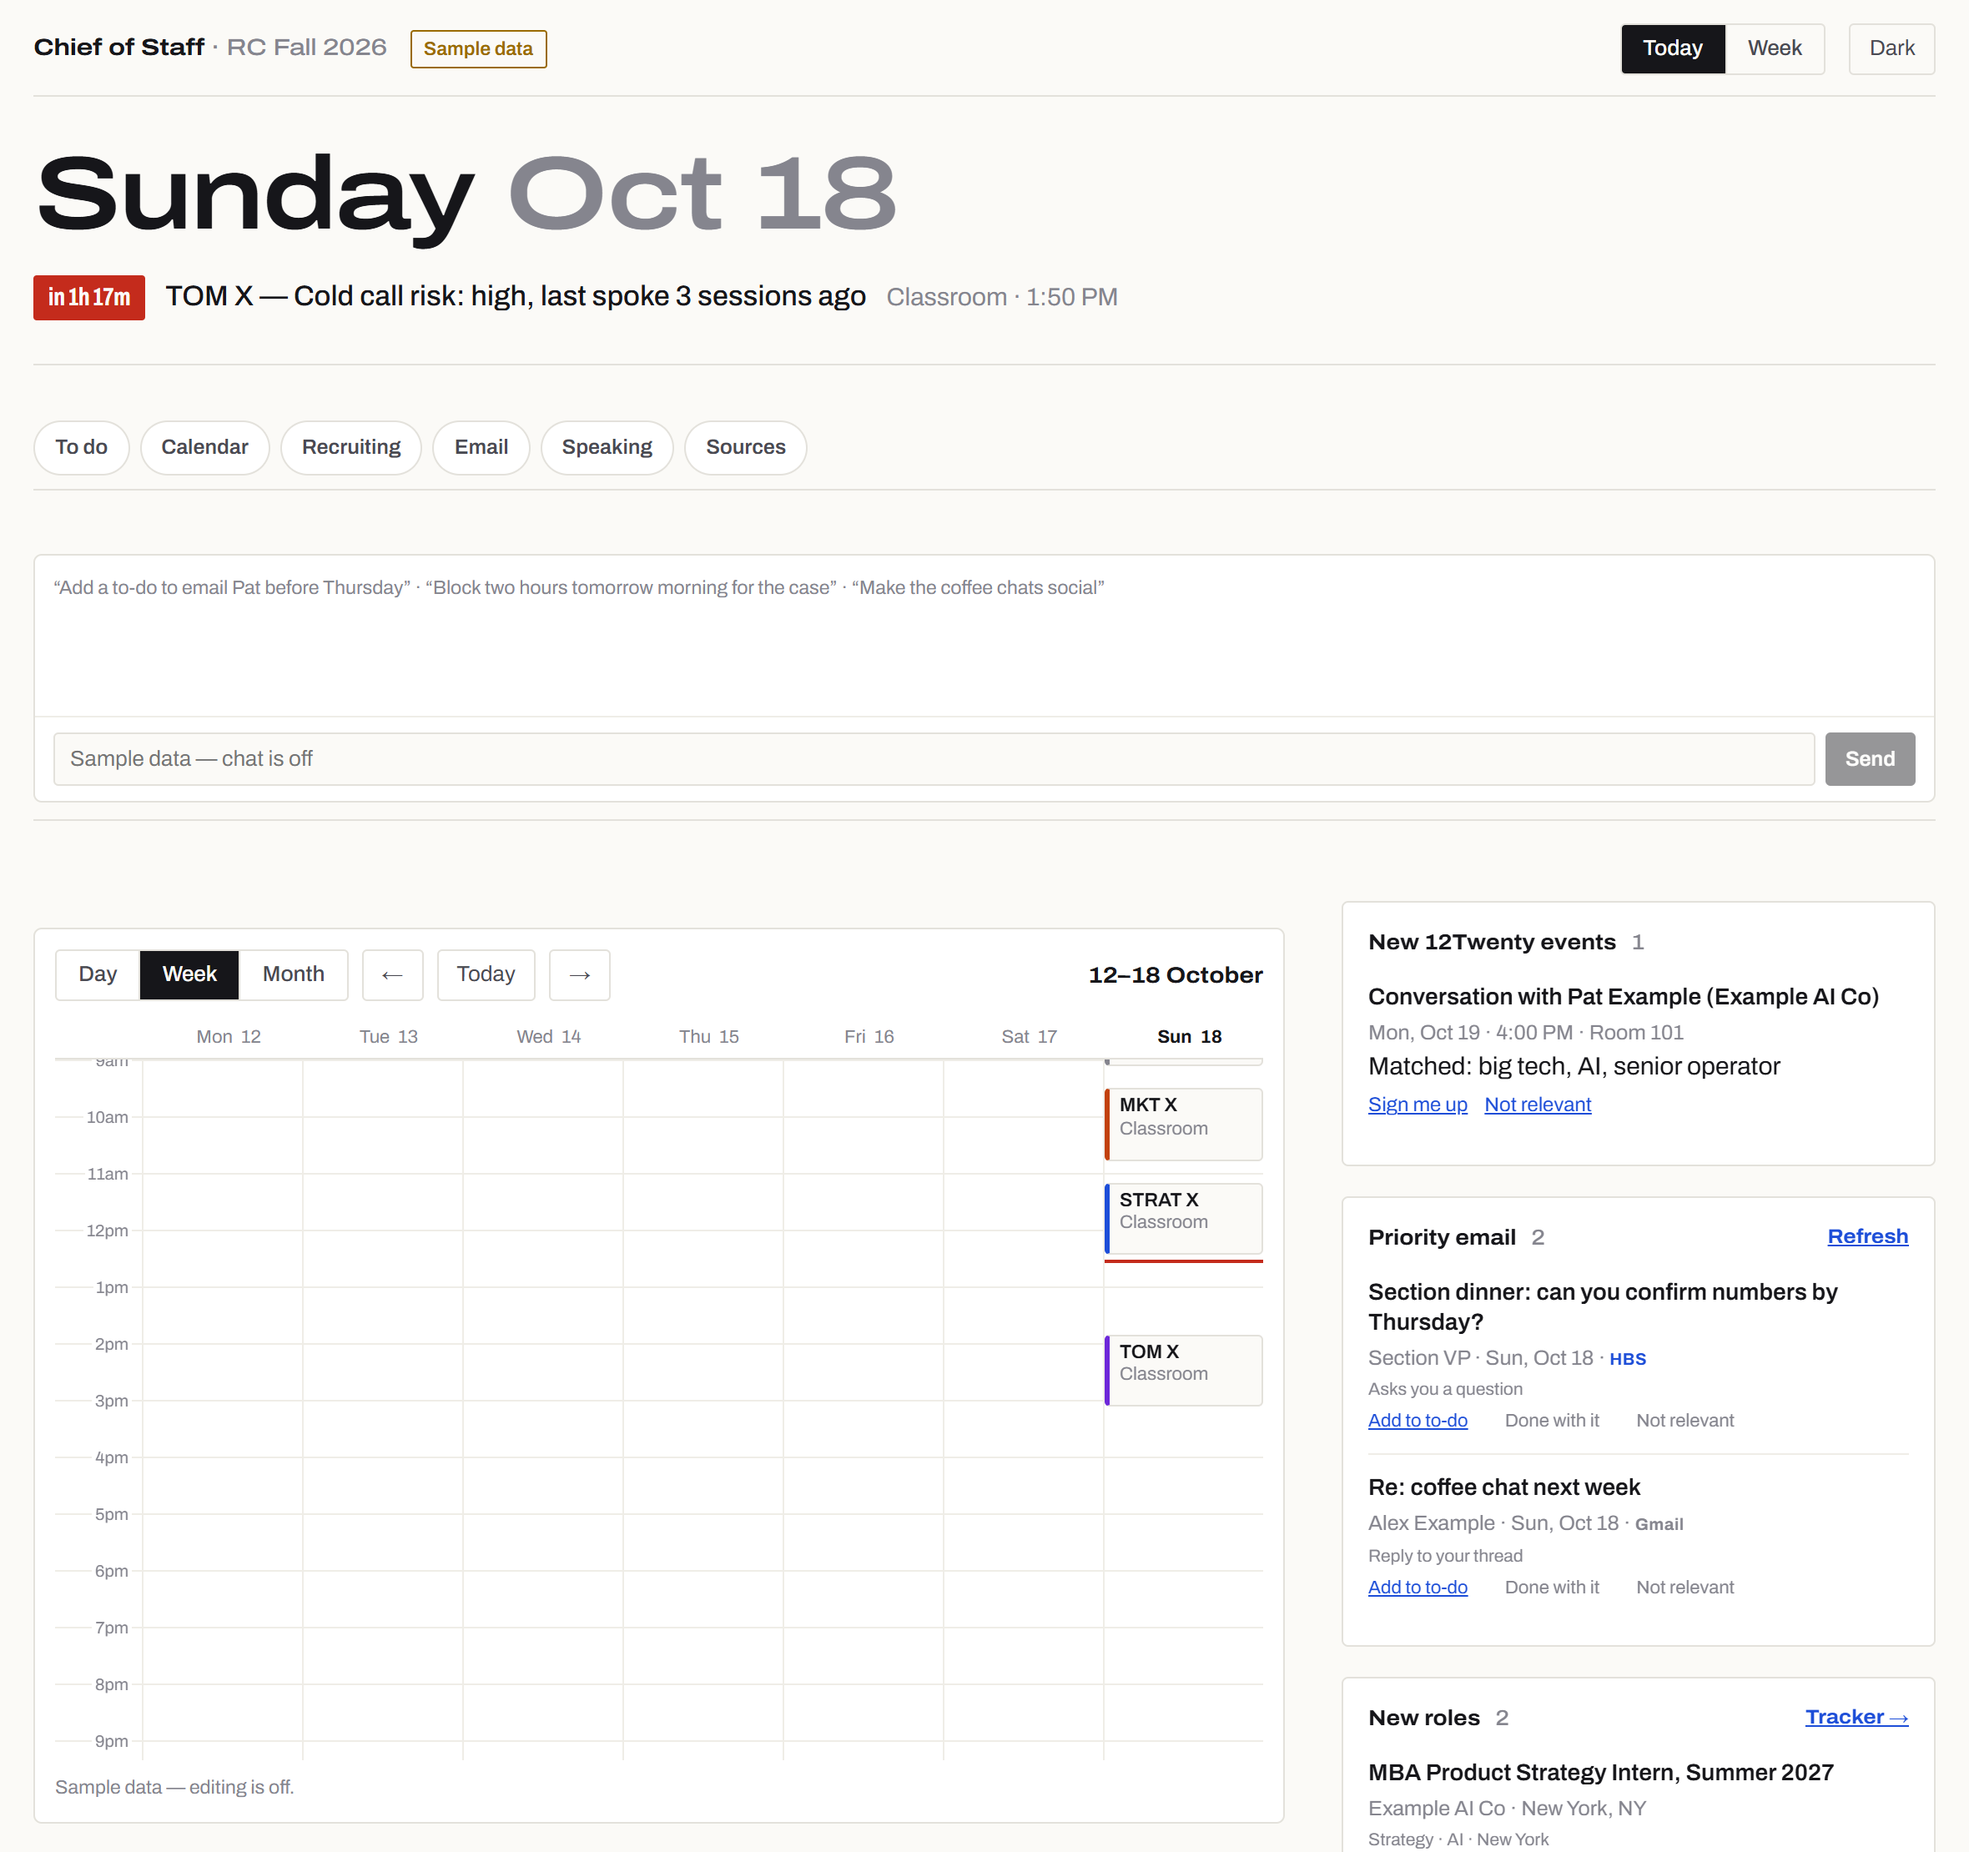
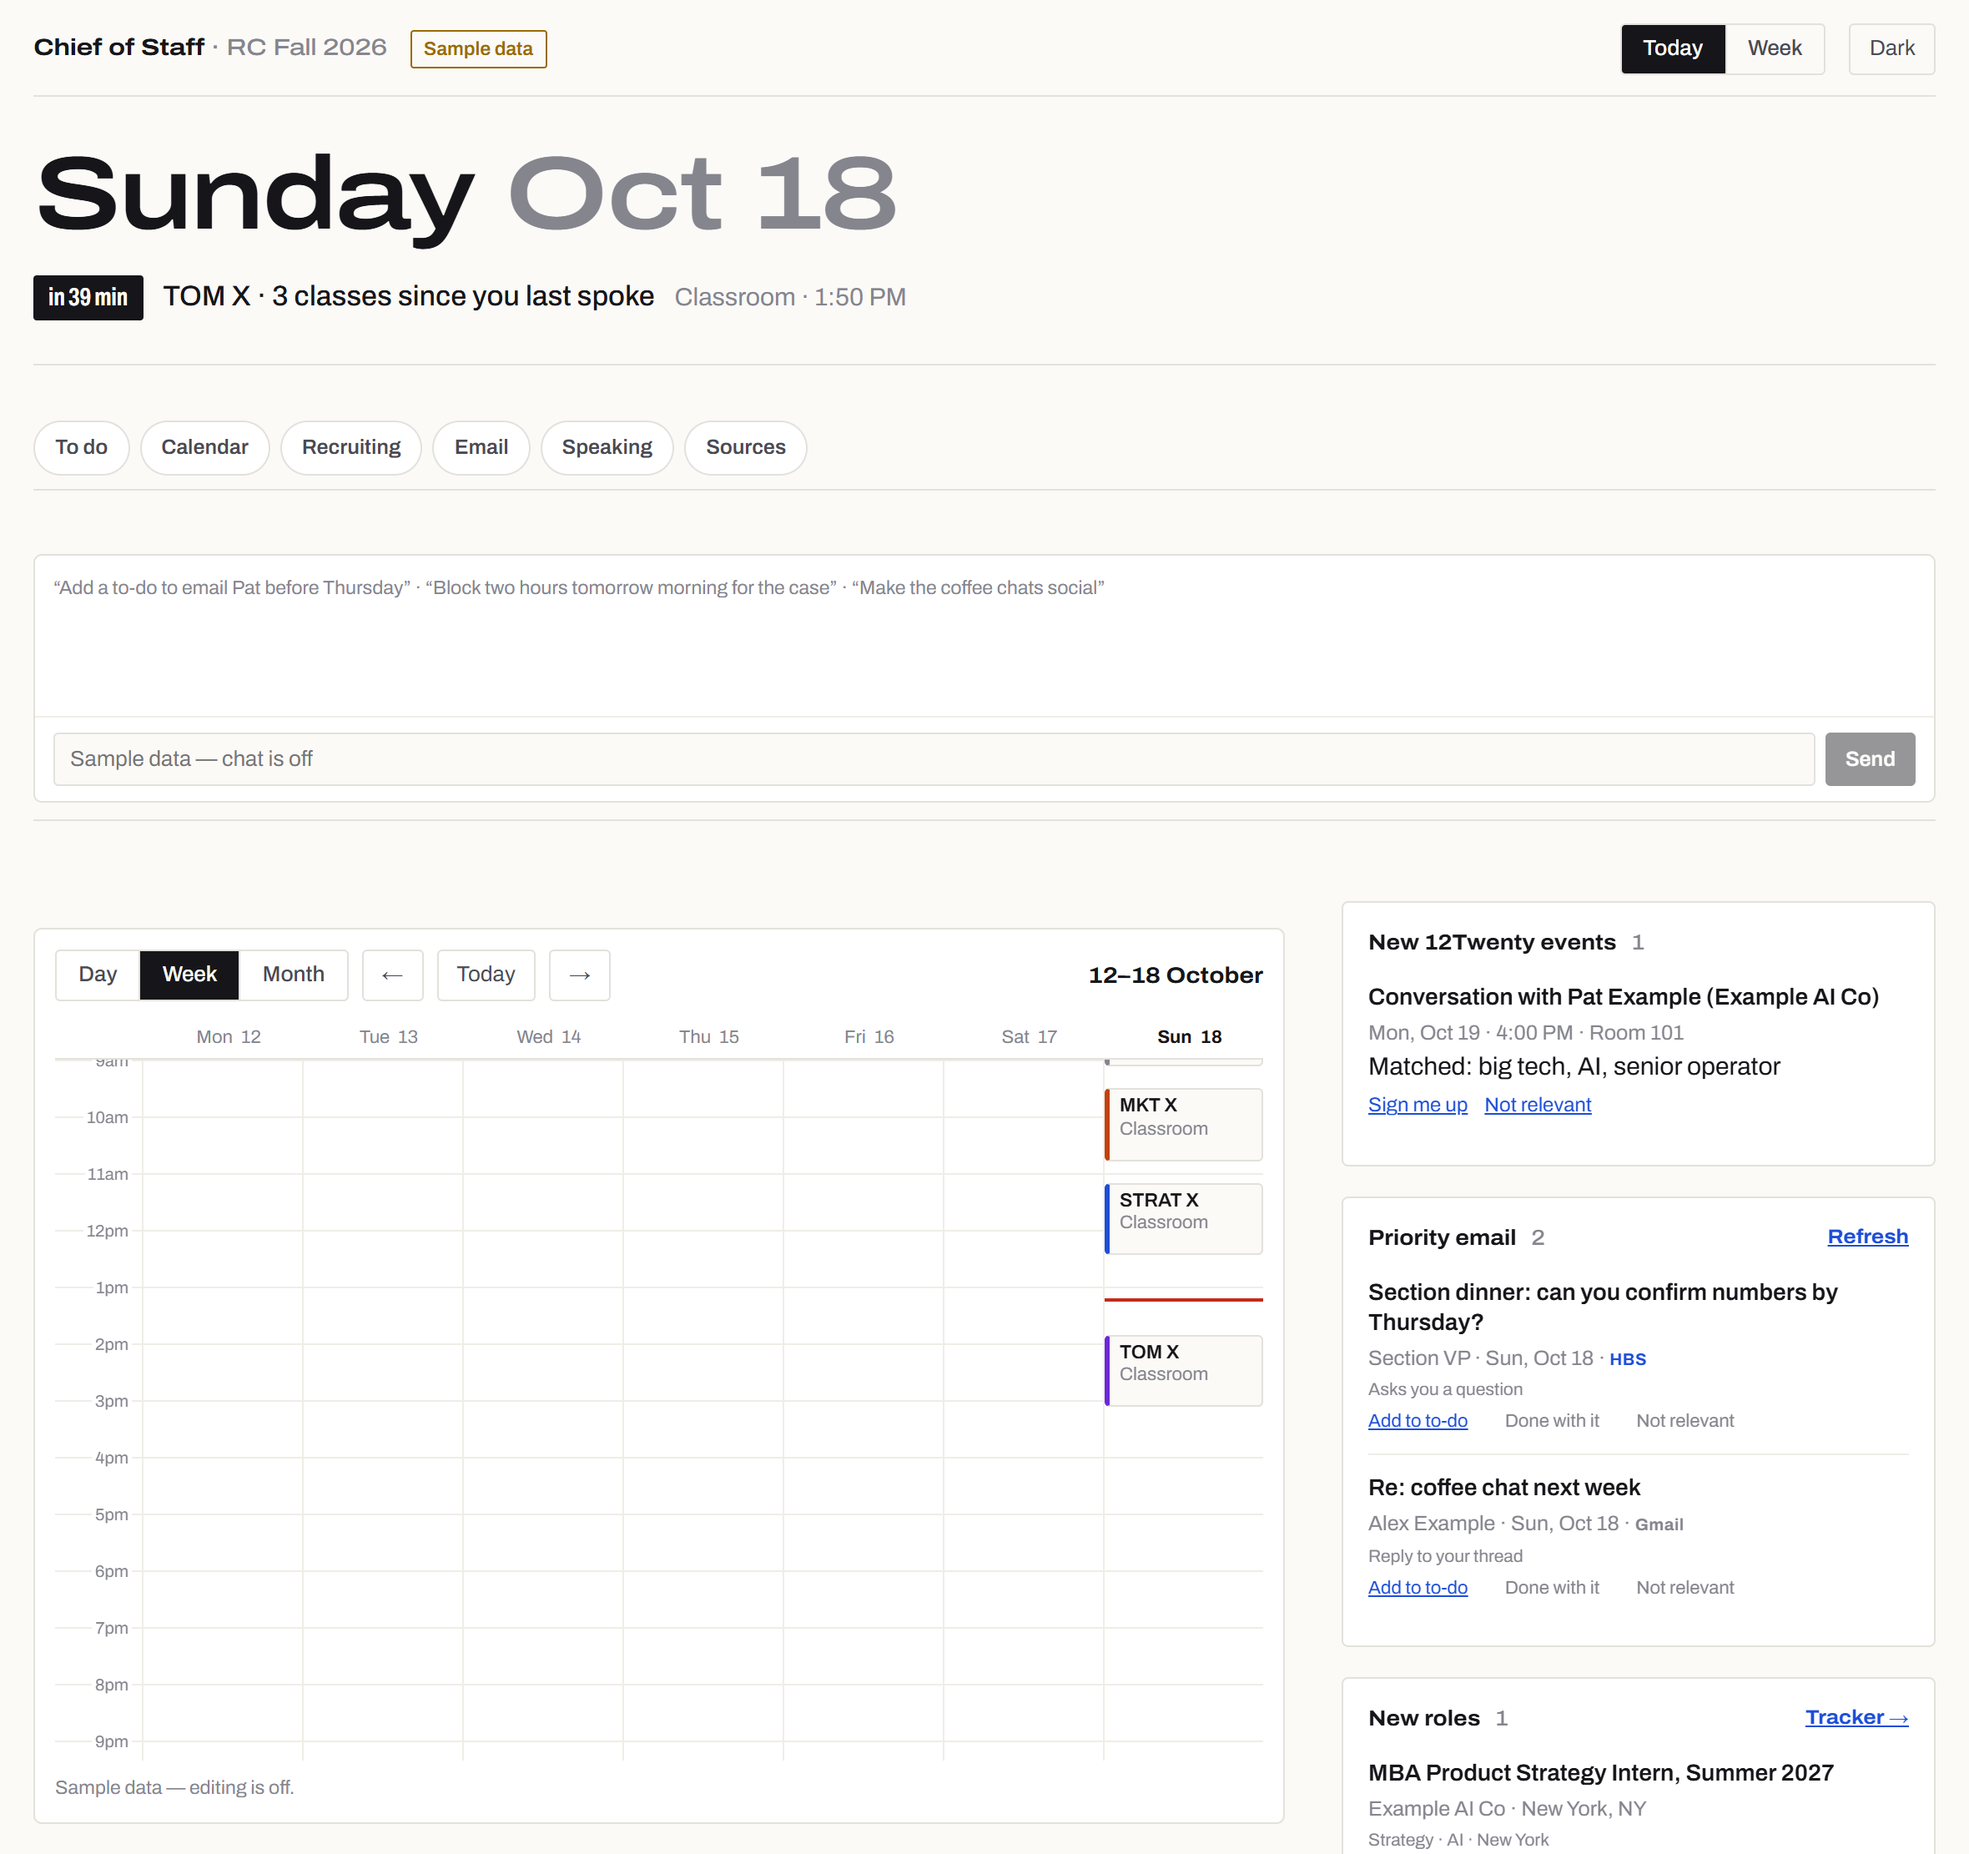
Reframe around classmates, six systems, participation tracking
Open with the busy-at-HBS framing, group the six sources by school,
personal life and recruiting, crop the second console view to cases
and illustrative to-dos, and describe participation as pacing rather
than cold-call risk.

diff --git a/index.html b/index.html
@@ -82,12 +82,20 @@ figure{margin:28px 0 0}
 a.shot:hover{border-color:var(--ink-3)}
 figcaption{font-size:13.5px;color:var(--ink-3);margin-top:10px;max-width:80ch}
 
-/* the five systems */
-.systems{display:grid;grid-template-columns:repeat(5,minmax(0,1fr));gap:1px;background:var(--rule);border:1px solid var(--rule);border-radius:4px;overflow:hidden;margin-top:24px}
-.systems div{background:var(--card);padding:14px 14px 16px;min-width:0}
-.systems b{display:block;font-size:14px}
-.systems span{display:block;font-size:13px;color:var(--ink-3);margin-top:3px}
-@media (max-width:760px){.systems{grid-template-columns:repeat(2,minmax(0,1fr))}}
+/* the six systems, in three groups */
+.groups{display:grid;grid-template-columns:repeat(3,minmax(0,1fr));gap:16px;margin-top:24px}
+.group{border:1px solid var(--rule);border-top:3px solid var(--c);border-radius:4px;background:var(--card);padding:16px 16px 6px;min-width:0}
+.group h3{font-size:12px;font-weight:700;letter-spacing:.08em;text-transform:uppercase;color:var(--c);margin:0 0 10px}
+.group div{padding:10px 0;border-top:1px solid var(--rule-2)}
+.group b{display:block;font-size:15px}
+.group span{display:block;font-size:13.5px;color:var(--ink-3);margin-top:2px}
+@media (max-width:760px){.groups{grid-template-columns:1fr}}
+.also{display:grid;grid-template-columns:repeat(4,minmax(0,1fr));gap:1px;background:var(--rule);border:1px solid var(--rule);border-radius:4px;overflow:hidden;margin-top:14px}
+.also div{background:var(--card);padding:14px;min-width:0}
+.also b{display:block;font-size:14.5px}
+.also span{display:block;font-size:13.5px;color:var(--ink-2);margin-top:3px}
+@media (max-width:860px){.also{grid-template-columns:repeat(2,minmax(0,1fr))}}
+@media (max-width:480px){.also{grid-template-columns:1fr}}
 
 /* tips */
 .tip-head{display:grid;grid-template-columns:auto 1fr;gap:18px;align-items:start}
@@ -159,8 +167,8 @@ footer .sp{flex:1}
 <main>
   <div class="hero wide">
     <p class="eyebrow">A project from my first year at Harvard Business School</p>
-    <h1>I automated the admin of business school. <em>Then I taught my section to.</em></h1>
-    <p class="lede">Over my first semester I taught myself to hand most of the small, recurring admin in my life to AI agents: filing class materials, prepping for cases, tracking recruiting, triaging two inboxes.</p>
+    <h1>I automated the admin of business school. <em>Then I taught my classmates to.</em></h1>
+    <p class="lede">Life gets busy at HBS. To make the most of my time, I automated as many of my tasks as possible, handing the small, recurring admin to AI agents: filing class materials, prepping for cases, tracking recruiting, triaging two inboxes.</p>
     <p class="lede">Friends kept asking how, so I built a website that teaches them a few of the most helpful tasks, from a simple daily study run anyone can set up to the full Chief of Staff I use every day.</p>
     <p class="byline"><b>Jamie Friedman</b> · HBS MBA 2028 · built with Claude Code and Claude in Chrome, fall 2026</p>
     <div class="ctas">
@@ -171,15 +179,19 @@ footer .sp{flex:1}
 
   <section class="wide" id="problem">
     <div class="narrow">
-      <h2>Why: the admin is spread across five systems</h2>
-      <p class="muted">An HBS first year runs six courses with a case almost every day while recruiting for a summer internship. What you need to plan a single day lives in five places that don't talk to each other, and two of them sit behind university sign-on with no API a student can use.</p>
+      <h2>Why: the admin is spread across six systems</h2>
+      <p class="muted">An HBS first year runs six courses with a case almost every day while recruiting for a summer internship. What you need to plan a single day lives in six places across school, personal life and recruiting. None of them talk to each other, and two sit behind university sign-on with no API a student can use.</p>
     </div>
-    <div class="systems">
-      <div><b>Canvas</b><span>Cases, problem sets and deadlines for six courses</span></div>
-      <div><b>HBS Outlook</b><span>Class schedule, section and club mail</span></div>
-      <div><b>12Twenty</b><span>Recruiting events and registrations</span></div>
-      <div><b>Gmail</b><span>Personal mail, newsletters, LinkedIn alerts</span></div>
-      <div><b>Google Calendar</b><span>Everything else in life</span></div>
+    <div class="groups">
+      <div class="group" style="--c:var(--strat)"><h3>School resources</h3>
+        <div><b>Canvas</b><span>Cases, problem sets and deadlines for six courses</span></div>
+        <div><b>HBS Outlook</b><span>Class schedule, section and club mail</span></div></div>
+      <div class="group" style="--c:var(--lead)"><h3>Personal life</h3>
+        <div><b>Gmail</b><span>Personal mail and newsletters</span></div>
+        <div><b>Google Calendar</b><span>Everything outside class</span></div></div>
+      <div class="group" style="--c:var(--rec)"><h3>Recruiting &amp; career</h3>
+        <div><b>12Twenty</b><span>Recruiting events and registrations</span></div>
+        <div><b>LinkedIn</b><span>Job alerts, roles and contacts</span></div></div>
     </div>
   </section>
 
@@ -225,17 +237,17 @@ footer .sp{flex:1}
         <p class="kicker" style="color:var(--strat)">The full system</p>
         <h2>An AI Chief of Staff: one page that runs my day</h2>
         <div class="tags"><span>Calendar</span><span>To-do list</span><span>Recruiting tracker</span><span>Two inboxes</span><span>News</span><span>Participation</span><span>AI agent</span></div>
-        <p class="muted">Everything from the five systems in one page I check from my phone between classes, with an agent that handles the routine work and never does anything I can't undo without my say-so. Below is the template version, running on made-up sample data.</p>
+        <p class="muted">Everything from the six systems in one page I check from my phone between classes, with an agent that handles the routine work and never does anything I can't undo without my say-so. Below is the template version, running on made-up sample data.</p>
       </div>
     </div>
 
     <div class="annot">
       <figure>
         <p class="label">View 1 · planning the day</p>
-        <a class="shot" href="images/console-top.png" target="_blank" rel="noopener" title="Open full size"><img src="images/console-top.png" width="2360" height="2220" alt="Top of the console on sample data: the date, the next class with a cold-call risk warning, the agent chat box, a week calendar with color-coded classes, new 12Twenty events and priority email tagged HBS or Gmail." loading="lazy"></a>
+        <a class="shot" href="images/console-top.png" target="_blank" rel="noopener" title="Open full size"><img src="images/console-top.png" width="2360" height="2222" alt="Top of the console on sample data: the date, the next class with the number of classes since I last spoke in it, the agent chat box, a week calendar with color-coded classes, new 12Twenty events and priority email tagged HBS or Gmail." loading="lazy"></a>
       </figure>
       <ol>
-        <li><span><b>Cold-call risk before every class</b>The next class, how long until it starts, and how many sessions since I last spoke in that course.</span></li>
+        <li><span><b>Tracking class participation</b>We're expected to participate as much as possible, but in many courses not every class, so others get a chance. Before each class it shows how many sessions since I last spoke there.</span></li>
         <li><span><b>An agent at the top</b>“Add a to-do to email my CPD advisor before Thursday” or “block two hours tomorrow for the case”, and it does it.</span></li>
         <li><span><b>One calendar</b>Day, week and month views merged from HBS Outlook and Google, color-coded by course.</span></li>
         <li><span><b>Recruiting events</b>New 12Twenty events matched to my targets, with one-tap sign-up that the laptop carries out.</span></li>
@@ -246,15 +258,21 @@ footer .sp{flex:1}
     <div class="annot">
       <figure>
         <p class="label">View 2 · getting it done</p>
-        <a class="shot" href="images/console-bottom.png" target="_blank" rel="noopener" title="Open full size"><img src="images/console-bottom.png" width="2360" height="3230" alt="Lower part of the console on sample data: a to-do list grouped by day with Prep, Case and Canvas links on class items, new roles to track, a Worth reading panel of newsletter headlines, recruiting deadlines, and a participation table showing sessions since last spoke per course." loading="lazy"></a>
+        <a class="shot" href="images/console-todo.png" target="_blank" rel="noopener" title="Open full size"><img src="images/console-todo.png" width="1572" height="1504" alt="The to-do list on sample data: tasks grouped by day, with FRC and STRAT case prep items carrying Prep, case, exhibits and Canvas links, alongside a 12Twenty sign-up, a problem set, an admin task and a coffee chat." loading="lazy"></a>
       </figure>
       <ol>
-        <li><span><b>Every Canvas assignment in one to-do list</b>Grouped by the day it's due, mixed with my own tasks, with a horizon so tonight's reading isn't buried.</span></li>
-        <li><span><b>Cases pulled into each class to-do</b>The case PDF link, exhibit files, the Canvas page and my prep notes attached right on the task.</span></li>
-        <li><span><b>A recruiting tracker</b>New roles from company job boards and LinkedIn alerts, sent to an internship tracker with statuses, deadlines and who I've spoken to.</span></li>
-        <li><span><b>Worth reading, twice a day</b>Headlines from the newsletters already in my inbox, matched to my interests and rebuilt morning and evening so the list holds still.</span></li>
-        <li><span><b>Classes since I last spoke</b>Per course, against my goal of speaking every two or three sessions, from the class log the daily run keeps.</span></li>
+        <li><span><b>Every Canvas assignment in one to-do list</b>Grouped by the day it's due, with a horizon so tonight's reading isn't buried under next month's.</span></li>
+        <li><span><b>Cases pulled into each class to-do</b>The case, exhibit files, the Canvas page and my prep notes are attached right on the task, so tomorrow's prep is one click.</span></li>
+        <li><span><b>School, recruiting and life in one list</b>12Twenty sign-ups, coffee chats and admin sit beside class prep, each tagged so I can filter to one kind.</span></li>
       </ol>
+    </div>
+
+    <div class="narrow" style="margin-top:40px"><h3>Also on the page</h3></div>
+    <div class="also">
+      <div><b>Recruiting tracker</b><span>New roles from job boards and LinkedIn alerts, sent to an internship tracker with statuses, deadlines and who I've spoken to.</span></div>
+      <div><b>Worth reading</b><span>Headlines from the newsletters already in my inbox, matched to my interests and rebuilt twice a day.</span></div>
+      <div><b>Participation by course</b><span>Sessions spoken in and since I last spoke, per course, from the class log the daily run keeps.</span></div>
+      <div><b>Recruiting deadlines</b><span>Sign-ups and applications due in the next ten days, flagged when they're inside 48 hours.</span></div>
     </div>
 
     <div class="narrow" style="margin-top:44px">
